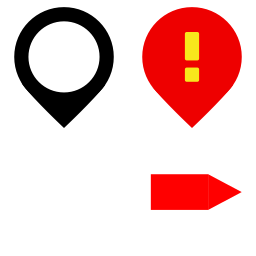
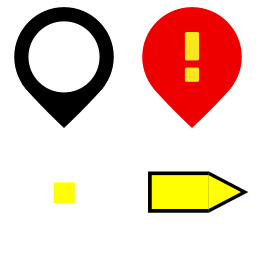
show stationary vehicles as yellow dots

Changed region(s): [[0.5625, 0.6562, 0.9688, 0.8438], [0.1875, 0.6875, 0.3125, 0.8125]]

diff --git a/src/plugins/vehicle-animation/TripViz.tsx b/src/plugins/vehicle-animation/TripViz.tsx
@@ -10,7 +10,8 @@ import PathTraceLayer from '@/layers/path-trace/path-trace'
 const ICON_MAPPING = {
   marker: { x: 0, y: 0, width: 128, height: 128, mask: true },
   info: { x: 128, y: 0, width: 128, height: 128, mask: true },
-  vehicle: { x: 128, y: 128, width: 128, height: 128, mask: true },
+  vehicle: { x: 128, y: 128, width: 128, height: 128, mask: false },
+  diamond: { x: 0, y: 128, width: 128, height: 128, mask: false },
 }
 
 // Set your mapbox token here
@@ -41,7 +42,7 @@ const COLOR_OCCUPANCY: any = {
 }
 
 const DEFAULT_THEME = {
-  buildingColor: [74, 80, 87],
+  vehicleColor: [200, 130, 250],
   trailColor0: [235, 235, 25],
   trailColor1: [23, 184, 190],
   effects: [lightingEffect],
@@ -78,7 +79,7 @@ export default function Component(props: any) {
       getTimeStart: (d: any) => d.t0,
       getTimeEnd: (d: any) => d.t1,
       getColor: (d: any) => COLOR_OCCUPANCY[d.occ],
-      getWidth: (d: any) => 4.0 * d.occ - 3.0,
+      getWidth: (d: any) => 3.0 * d.occ - 2,
       opacity: 0.9,
       widthMinPixels: 2,
       rounded: false,
@@ -99,12 +100,15 @@ export default function Component(props: any) {
     // }),
     //@ts-ignore
     new MovingIconLayer({
-      id: 'dots',
+      id: 'sprites',
       data: trips,
       getPath: (d: any) => d.path,
       getTimestamps: (d: any) => d.timestamps,
       getIcon: (d: any) => 'vehicle',
-      getSize: (d: any) => 36,
+      iconMoving: 'vehicle',
+      iconStill: 'diamond',
+      getSize: 48,
+      getColor: theme.vehicleColor,
       opacity: 1.0,
       currentTime: props.simulationTime,
       shadowEnabled: false,
@@ -114,7 +118,6 @@ export default function Component(props: any) {
       iconMapping: ICON_MAPPING,
       sizeScale: 1,
       billboard: true,
-      getColor: theme.trailColor0,
     }),
   ]
 

diff --git a/src/layers/moving-icons/moving-icon-layer.ts b/src/layers/moving-icons/moving-icon-layer.ts
@@ -61,6 +61,7 @@ const defaultProps = {
   sizeMaxPixels: { type: 'number', min: 0, value: Number.MAX_SAFE_INTEGER }, // max point radius in pixels
   alphaCutoff: { type: 'number', value: 0.05, min: 0, max: 1 },
   noAlloc: true,
+  iconStill: { type: 'object', value: null },
 
   // getPosition: { type: 'accessor', value: (x: any) => x.position },
   getIcon: { type: 'accessor', value: (x: any) => x.icon },
@@ -234,6 +235,7 @@ export default class IconLayer extends Layer {
       billboard,
       alphaCutoff,
       currentTime,
+      iconStill,
     } = this.props
 
     const { iconManager } = this.state
@@ -252,6 +254,9 @@ export default class IconLayer extends Layer {
             billboard,
             alphaCutoff,
             currentTime,
+            iconStillOffsets: this.getInstanceOffset(iconStill),
+            iconStillColorModes: this.getInstanceColorMode(iconStill),
+            iconStillFrames: this.getInstanceIconFrame(iconStill),
           })
         )
         .draw()
